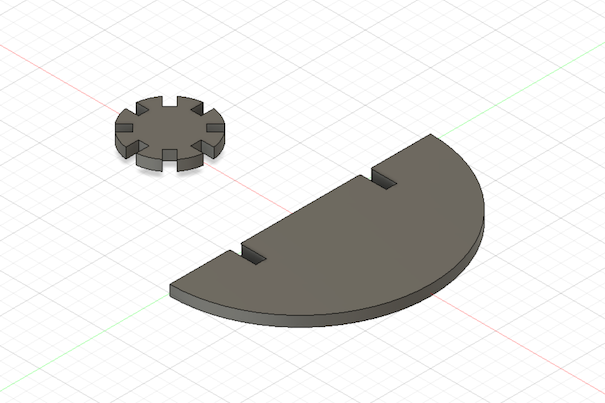
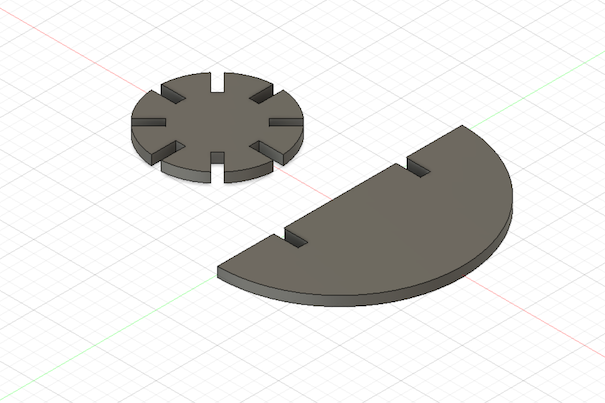
Week 2 Web Update

diff --git a/02_laser/index.html b/02_laser/index.html
@@ -48,20 +48,32 @@ Here are a few renders to illustrate the design I have in mind. The ideal materi
 ![image of embroidery](./render1.jpg)
 ![image of embroidery](./render2.jpg)
 
+These elements can be assembled in various ways to form interesting shapes.
+
+![image of embroidery](./render3.jpg)
+![image of embroidery](./render4.jpg)
+
 <br>
 
 ##### 🏮 Modeling
 
-I made 3d models of the components needed to assemble a simple lantern in Fusion 360, and projected 2d drawings for laser cutting.
+I made 3d models of the components needed to assemble a simple lantern in Fusion 360, and projected 2d drawings for laser cutting. The dimensions were adjusted based on the measurement of the cardboard that would be used in actual fabrication.
 
 ![image of embroidery](./fusion1.png)
 ![image of embroidery](./laser1.png)
 
 <br>
 
-##### 🏮 Laser Cutting
+##### 🏮 Laser Cutting & Assembly
 
-to be cont'd
+Viola! ✨
+
+![image of embroidery](./laser2.png)
+![image of embroidery](./laser3.jpg)
+
+
+![image of embroidery](./laser5.jpg)
+![image of embroidery](./laser6.jpg)
 
 <br>
 Click <a href="https://olafureliasson.net/" target="_blank"> here</a> to see more works by Olafur Eliasson, one of my favorite artists.
